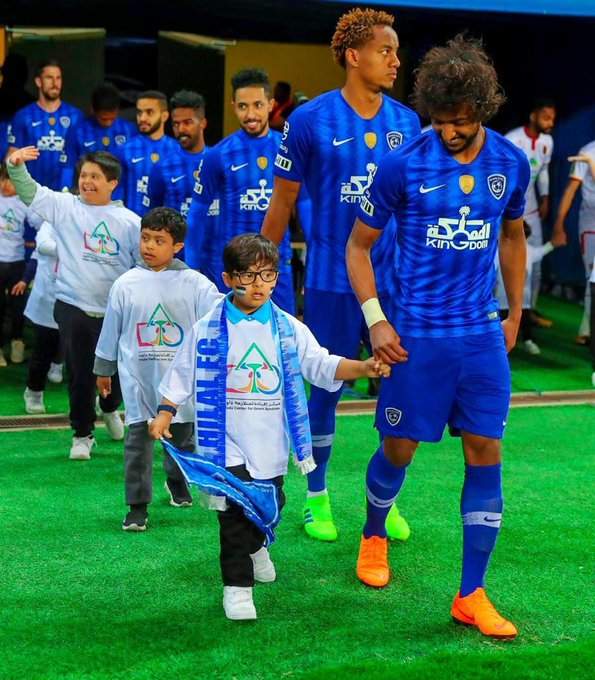
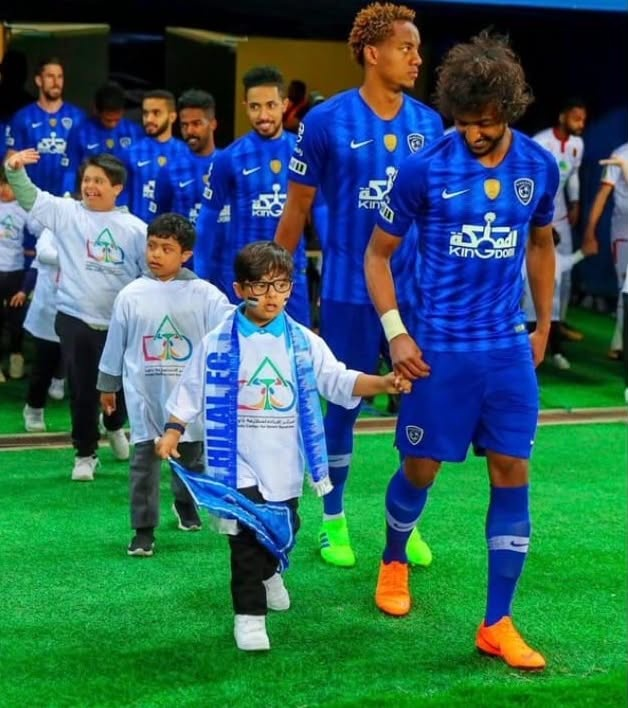
feat: apply high-resolution uncropped Efada Al-Hilal showcase photo with native aspect ratio

diff --git a/css/style.css b/css/style.css
@@ -2148,7 +2148,7 @@ a[href^="tel:"] strong {
 }
 
 .photo-showcase-card {
-  max-width: 560px;
+  max-width: 628px;
   margin-inline: auto;
   border-radius: var(--radius-xl);
   overflow: hidden;
